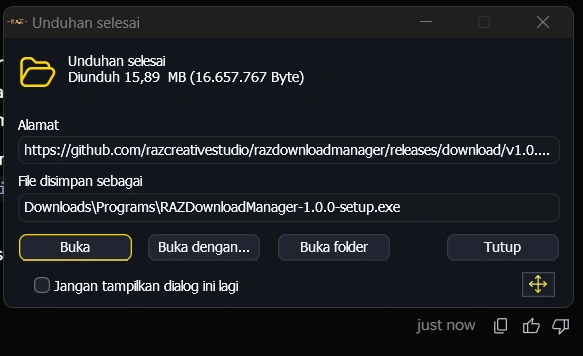
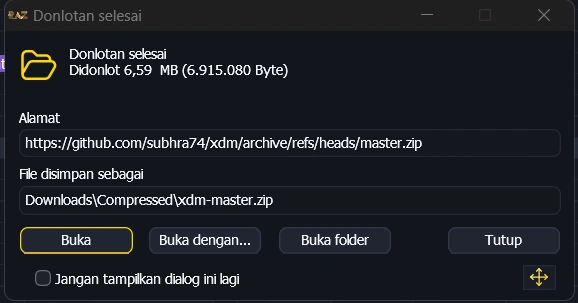
feat(screens): add latest download completed dialog dark and light screenshots to website and README

diff --git a/website/js/RAZMainLang.js b/website/js/RAZMainLang.js
@@ -84,8 +84,10 @@ const RAZMainLang = {
             'tour-tab-progress-desc': 'Pantau kecepatan, bendera server, dan segmen multi-thread secara real-time (Tema Obsidian Gelap).',
             'tour-tab-progress-light-title': 'Proses Donlot (Mode Terang)',
             'tour-tab-progress-light-desc': 'Tampilan dialog progres tema terang Windows dengan kontras tajam dan pemantauan thread live.',
-            'tour-tab-completed-title': 'Dialog Donlotan Selesai',
-            'tour-tab-completed-desc': 'Notifikasi instan dengan opsi langsung buka file, buka folder tujuan, atau buka dengan aplikasi pilihan.',
+            'tour-tab-completed-title': 'Donlotan Selesai (Mode Gelap)',
+            'tour-tab-completed-desc': 'Notifikasi instan dengan opsi langsung buka file, buka folder tujuan, atau buka dengan aplikasi (Obsidian Dark).',
+            'tour-tab-completed-light-title': 'Donlotan Selesai (Mode Terang)',
+            'tour-tab-completed-light-desc': 'Tampilan dialog donlotan selesai tema terang Windows dengan tombol aksi amber presisi.',
             'tour-tab-options-title': 'Konfigurasi (Mode Gelap)',
             'tour-tab-options-desc': 'Integrasi peramban otomatis, manajemen koneksi, proxy, hingga opsi perilaku sistem semau lo.',
             'tour-tab-options-light-title': 'Konfigurasi (Mode Terang)',
@@ -286,8 +288,10 @@ const RAZMainLang = {
             'tour-tab-progress-desc': 'Monitor transfer rate, server location flag, and live multi-thread byte segments (Obsidian Dark Theme).',
             'tour-tab-progress-light-title': 'Download Progress (Light Mode)',
             'tour-tab-progress-light-desc': 'Windows light mode progress dialog with high contrast and live connection tracking.',
-            'tour-tab-completed-title': 'Download Completed Dialog',
-            'tour-tab-completed-desc': 'Instant completion dialog with direct actions to open the file, open destination folder, or choose app.',
+            'tour-tab-completed-title': 'Download Completed (Dark Mode)',
+            'tour-tab-completed-desc': 'Instant completion dialog with direct actions to open the file, open destination folder, or choose app (Obsidian Dark).',
+            'tour-tab-completed-light-title': 'Download Completed (Light Mode)',
+            'tour-tab-completed-light-desc': 'Windows light mode completion dialog with warm amber action buttons and clean file details.',
             'tour-tab-options-title': 'Settings (Dark Mode)',
             'tour-tab-options-desc': 'Automatic browser integration, network connection tuning, proxies, and custom behaviors.',
             'tour-tab-options-light-title': 'Settings (Light Mode)',

diff --git a/website/index.html b/website/index.html
@@ -337,8 +337,12 @@
                         <p data-lang-key="tour-tab-progress-light-desc">Tampilan dialog progres tema terang Windows dengan kontras tajam dan pemantauan thread live.</p>
                     </div>
                     <div class="tour-tab-item" data-img="assets/screens/completed-dark.webp">
-                        <h4 data-lang-key="tour-tab-completed-title">Dialog Donlotan Selesai</h4>
-                        <p data-lang-key="tour-tab-completed-desc">Notifikasi instan dengan opsi langsung buka file, buka folder tujuan, atau buka dengan aplikasi pilihan.</p>
+                        <h4 data-lang-key="tour-tab-completed-title">Donlotan Selesai (Mode Gelap)</h4>
+                        <p data-lang-key="tour-tab-completed-desc">Notifikasi instan dengan opsi langsung buka file, buka folder tujuan, atau buka dengan aplikasi (Obsidian Dark).</p>
+                    </div>
+                    <div class="tour-tab-item" data-img="assets/screens/completed-light.webp">
+                        <h4 data-lang-key="tour-tab-completed-light-title">Donlotan Selesai (Mode Terang)</h4>
+                        <p data-lang-key="tour-tab-completed-light-desc">Tampilan dialog donlotan selesai tema terang Windows dengan tombol aksi amber presisi.</p>
                     </div>
                     <div class="tour-tab-item" data-img="assets/screens/options-dark.webp">
                         <h4 data-lang-key="tour-tab-options-title">Konfigurasi (Mode Gelap)</h4>

diff --git a/website/help.html b/website/help.html
@@ -176,9 +176,15 @@
                         </div>
                     </div>
 
-                    <div class="step-image-wrap">
-                        <img src="assets/help/catch-complete.webp" alt="Notifikasi Donlotan Selesai" loading="lazy">
-                        <div class="step-caption">Dialog konfirmasi saat donlotan selesai dengan tombol Buka File atau Buka Folder penyimpanan.</div>
+                    <div class="step-image-wrap" style="display:grid;grid-template-columns:repeat(auto-fit, minmax(280px, 1fr));gap:16px;">
+                        <div>
+                            <img src="assets/help/catch-complete-dark.webp" alt="Notifikasi Donlotan Selesai - Mode Gelap" loading="lazy" style="width:100%;border-radius:10px;">
+                            <div class="step-caption">Dialog konfirmasi selesai tema Obsidian Gelap dengan aksi cepat Buka, Buka Folder, atau Buka dengan.</div>
+                        </div>
+                        <div>
+                            <img src="assets/help/catch-complete.webp" alt="Notifikasi Donlotan Selesai - Mode Terang" loading="lazy" style="width:100%;border-radius:10px;">
+                            <div class="step-caption">Dialog konfirmasi selesai tema Terang (Light Mode) dengan kontras tajam.</div>
+                        </div>
                     </div>
                 </div>
             </div>

diff --git a/RAZUpdateHistory.md b/RAZUpdateHistory.md
@@ -3,6 +3,29 @@ Dokumentasi riwayat pembaruan dan perubahan harian proyek RAZ Download Manager.
 
 ---
 
+## [2026-11-16] — Pembaruan Tangkapan Layar Dialog Donlotan Selesai (Dark & Light Mode) di Website dan README.md
+*Waktu: 16 November 2026 20:38 WIB*
+
+### Aktivitas & Pembaruan:
+1. **Pembaruan Tangkapan Layar Dialog "Donlotan selesai" (Download Completed Dialog)**:
+   - Memproses tangkapan layar dialog notifikasi unduhan selesai versi terbaru untuk kedua tema (Dark & Light):
+     - `docs/images/completed-dark.png` & `docs/images/completed.png` &rarr; Dialog selesai tema Obsidian Dark untuk `README.md`.
+     - `docs/images/completed-light.png` &rarr; Dialog selesai tema Windows Light untuk `README.md`.
+     - `website/assets/screens/completed-dark.webp` & `completed-dark.png` &rarr; Aset resolusi tinggi di website.
+     - `website/assets/screens/completed-light.webp` & `completed-light.png` &rarr; Aset resolusi tinggi di website.
+     - `website/assets/help/catch-complete-dark.webp`, `catch-complete.webp`, `first-complete-dark.webp`, `first-complete.webp` &rarr; Aset Pusat Bantuan website & dokumentasi offline.
+
+2. **Pembaruan Tabel Antarmuka `README.md`**:
+   - Menjadikan baris `✅ Dialog Donlotan Selesai` simetris: Mode Gelap vs Mode Terang.
+   - Menjaga tata letak tabel tetap rapi dan seimbang dengan baris mandiri untuk tombol sniffer video browser.
+
+3. **Pembaruan Website & Pusat Bantuan (`website/help.html`, `website/index.html`, `website/js/RAZMainLang.js`)**:
+   - `website/help.html`: Menampilkan dialog donlotan selesai dalam grid responsif dual-mode berdampingan.
+   - `website/index.html`: Menyediakan tab tur interaktif `Donlotan Selesai (Mode Gelap)` dan `Donlotan Selesai (Mode Terang)`.
+   - `website/js/RAZMainLang.js`: Dukungan lokalisasi bilingual (Indonesia & Inggris).
+
+---
+
 ## [2026-11-16] — Pembaruan Tangkapan Layar Pop-Up Konfirmasi Donlot Browser (Dark & Light Mode) di Website dan README.md
 *Waktu: 16 November 2026 16:58 WIB*
 

diff --git a/README.md b/README.md
@@ -149,10 +149,15 @@ Berikut tampilan antarmuka resmi RAZ Download Manager v1.0.0 dengan sentuhan tem
 | <img src="docs/images/video-dark.png" alt="Dialog Donlot Video dari Halaman Mode Gelap" width="460"> | <img src="docs/images/video-light.png" alt="Dialog Donlot Video dari Halaman Mode Terang" width="460"> |
 | *Deteksi otomatis resolusi video/audio, subtitle, dan konversi format (Dark)* | *Dukungan penuh mode terang Windows dengan tombol amber presisi (Light)* |
 
-| ✅ Dialog Donlotan Selesai | 🎬 Tombol Unduh Video di Browser |
+| ✅ Dialog Donlotan Selesai (Mode Gelap) | ✅ Dialog Donlotan Selesai (Mode Terang) |
 | :---: | :---: |
-| <img src="docs/images/completed.png" alt="Dialog Donlotan Selesai" width="460"> | <img src="docs/images/video-button.png" alt="Tombol Unduh Video RAZ di Browser" width="360"> |
-| *Aksi cepat buka file, buka folder, dan setel aplikasi* | *Tombol melayang otomatis di atas player browser dengan logo resmi RAZ* |
+| <img src="docs/images/completed-dark.png" alt="Dialog Donlotan Selesai Mode Gelap" width="460"> | <img src="docs/images/completed-light.png" alt="Dialog Donlotan Selesai Mode Terang" width="460"> |
+| *Aksi cepat buka file, buka folder, dan setel aplikasi pilihan (Dark)* | *Dukungan penuh tema terang Windows dengan tombol aksi amber presisi (Light)* |
+
+| 🎬 Tombol Unduh Video di Browser (Video Sniffer) |
+| :---: |
+| <img src="docs/images/video-button.png" alt="Tombol Unduh Video RAZ di Browser" width="340"> |
+| *Tombol melayang otomatis di atas pemutar video browser (YouTube, TikTok, dll) dengan logo resmi RAZ* |
 
 ---
 
